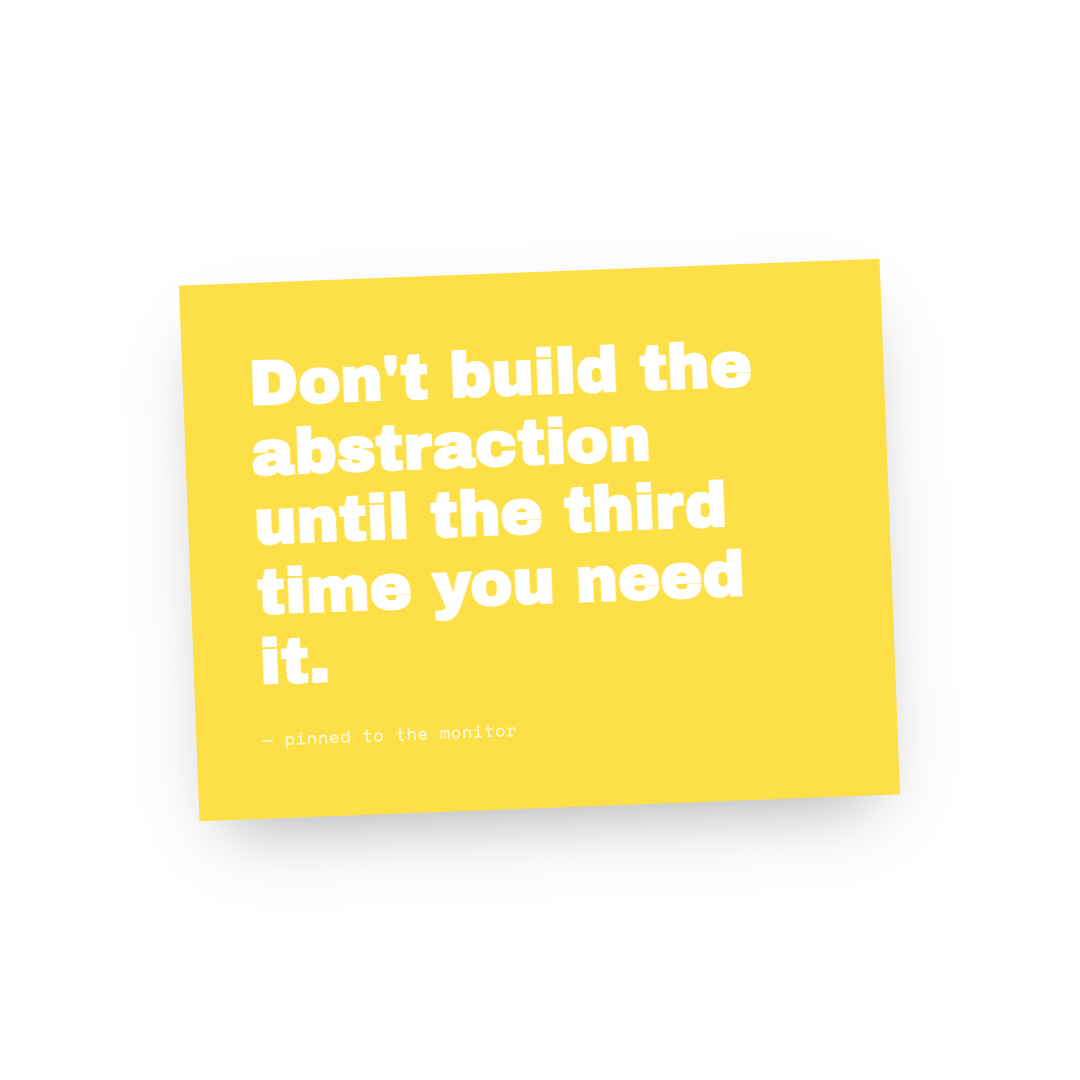
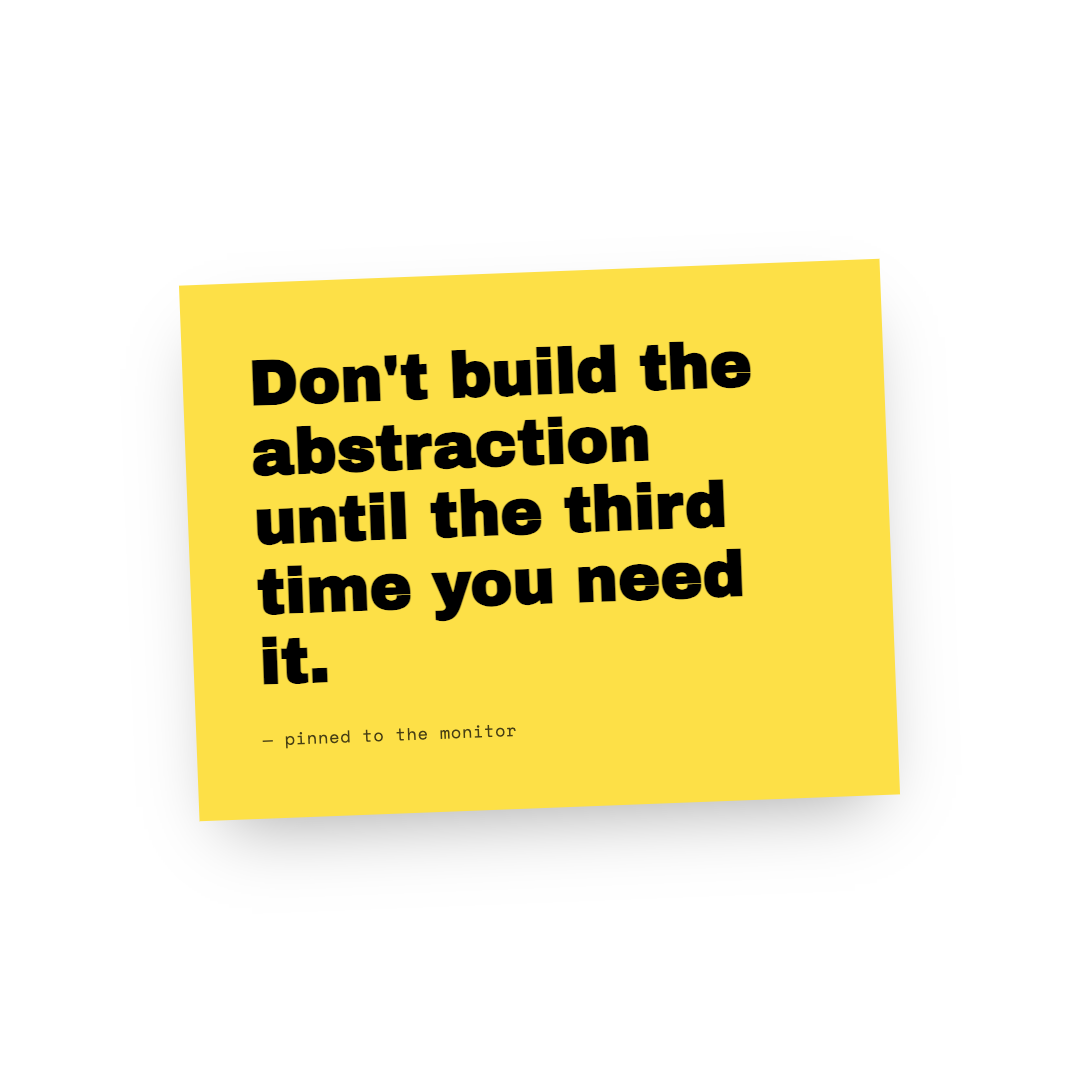
fix(quoteforge[themes]): add on-accent token so text on accent surfaces stays readable

Changed region(s): [[0.2139, 0.3056, 0.7028, 0.6417], [0.3667, 0.6722, 0.4583, 0.7028], [0.275, 0.6722, 0.3361, 0.7028]]

diff --git a/templates/sticky/style.css b/templates/sticky/style.css
@@ -22,19 +22,19 @@
 }
 
 .sticky-note .headline {
-  color: var(--bg);
+  color: var(--on-accent);
 }
 
 .sticky-note .part-normal,
 .sticky-note .part-bold,
 .sticky-note .part-italic,
 .sticky-note .part-mono {
-  color: var(--bg);
+  color: var(--on-accent);
 }
 
 .sticky-note .part-accent,
 .sticky-note .part-accent-italic {
-  color: var(--bg);
+  color: var(--on-accent);
   opacity: 0.75;
 }
 
@@ -48,11 +48,11 @@
 .sticky-note .callout-text,
 .sticky-note .bullet-label,
 .sticky-note .bullet-text {
-  color: var(--bg);
+  color: var(--on-accent);
 }
 
 .sticky-note .block-blockquote blockquote {
-  border-left-color: var(--bg);
+  border-left-color: var(--on-accent);
 }
 
 .sticky-sign {
@@ -63,7 +63,7 @@
   font-family: var(--font-body);
   font-size: clamp(11px, calc(0.85rem * var(--type-scale)), 20px);
   letter-spacing: 0.04em;
-  color: var(--bg);
+  color: var(--on-accent);
   opacity: 0.72;
 }
 

diff --git a/templates/split/style.css b/templates/split/style.css
@@ -31,7 +31,7 @@
   font-size: clamp(11px, calc(0.85rem * var(--type-scale)), 18px);
   letter-spacing: 0.16em;
   text-transform: uppercase;
-  color: var(--bg);
+  color: var(--on-accent);
   opacity: 0.85;
 }
 
@@ -40,7 +40,7 @@
 }
 
 .split-rail .headline {
-  color: var(--bg);
+  color: var(--on-accent);
   font-size: clamp(32px, calc(var(--headline-size) * var(--headline-scale) * 1.2), 140px);
   line-height: 0.95;
   letter-spacing: -0.02em;
@@ -50,12 +50,12 @@
 .split-rail .part-normal,
 .split-rail .part-bold,
 .split-rail .part-italic {
-  color: var(--bg);
+  color: var(--on-accent);
 }
 
 .split-rail .part-accent,
 .split-rail .part-accent-italic {
-  color: var(--bg);
+  color: var(--on-accent);
   opacity: 0.65;
 }
 

diff --git a/src/renderer/template-engine.ts b/src/renderer/template-engine.ts
@@ -65,6 +65,7 @@ function buildCssVars(
     "--bg": theme.colors.background,
     "--headline": theme.colors.headline,
     "--accent": theme.colors.accent,
+    "--on-accent": theme.colors["on-accent"] ?? theme.colors.background,
     "--body": theme.colors.body,
     "--label": theme.colors.label,
     "--bq-border": theme.colors["blockquote-border"],

diff --git a/src/cli/utils/validator.ts b/src/cli/utils/validator.ts
@@ -155,6 +155,7 @@ export const ThemeColorsSchema = z.object({
   background: z.string(),
   headline: z.string(),
   accent: z.string(),
+  "on-accent": z.string().optional(),
   body: z.string(),
   label: z.string(),
   "blockquote-border": z.string(),

diff --git a/templates/calendar/style.css b/templates/calendar/style.css
@@ -20,7 +20,7 @@
 
 .cal-month {
   background: var(--accent);
-  color: var(--bg);
+  color: var(--on-accent);
   text-align: center;
   font-size: clamp(11px, calc(0.85rem * var(--type-scale)), 22px);
   letter-spacing: 0.2em;

diff --git a/templates/chat/style.css b/templates/chat/style.css
@@ -27,7 +27,7 @@
 .chat-bubble.me {
   align-self: flex-end;
   background: var(--accent);
-  color: var(--bg);
+  color: var(--on-accent);
   font-weight: 600;
   border-bottom-right-radius: 0.2em;
 }

diff --git a/templates/profile/style.css b/templates/profile/style.css
@@ -38,7 +38,7 @@
 
 .profile-avatar--initials {
   background: var(--accent);
-  color: var(--bg);
+  color: var(--on-accent);
   display: flex;
   align-items: center;
   justify-content: center;

diff --git a/templates/window/style.css b/templates/window/style.css
@@ -77,7 +77,7 @@
 
 .window-body .callout-label,
 .window-body .callout-text {
-  color: var(--bg);
+  color: var(--on-accent);
   font-family: var(--font-body);
   font-weight: 600;
 }

diff --git a/CHANGELOG.md b/CHANGELOG.md
@@ -1,5 +1,24 @@
 # Changelog
 
+## Unreleased
+
+### Added
+- Theme colour token `on-accent`: the text colour used on accent-filled surfaces
+  (sticky note, split rail, chat bubble, calendar date block, window CTA, profile avatar).
+  Optional — defaults to `background`, so existing themes are unaffected.
+
+### Fixed
+- Text on accent-filled surfaces was hardcoded to `background`, which fails whenever a theme's
+  accent and background sit close in luminance. `brutal-white` rendered white-on-yellow at a
+  1.32:1 contrast ratio; it is now 15.93:1. `light-minimal`, `sunset-rose`, and `noir-crimson`
+  were also below the 4.5:1 threshold and now carry an explicit `on-accent`.
+- `align` was inert on templates whose content lives in a full-height inner body — `terminal`,
+  `diff`, and `frame` ignored `top`, `bottom`, and `spread` entirely.
+- Docs images rendered unstyled at full resolution; template samples are now contained and
+  captioned.
+- `spotlight` and `frame` samples did not match their designs — the first lost its accent word,
+  the second rendered at body size because it used a `blockquote` block.
+
 ## 1.0.0
 
 ### Added
